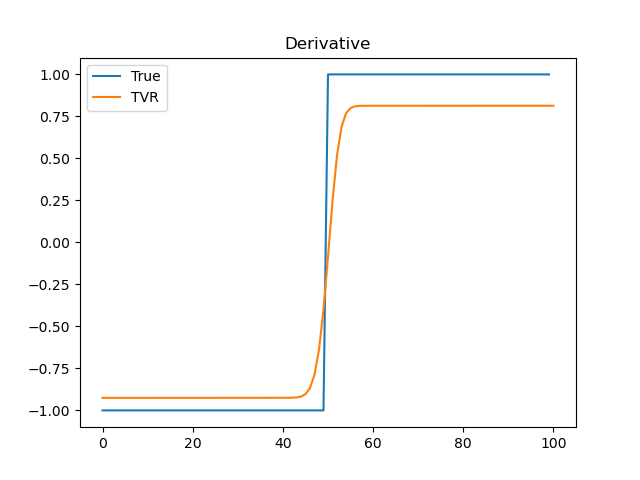
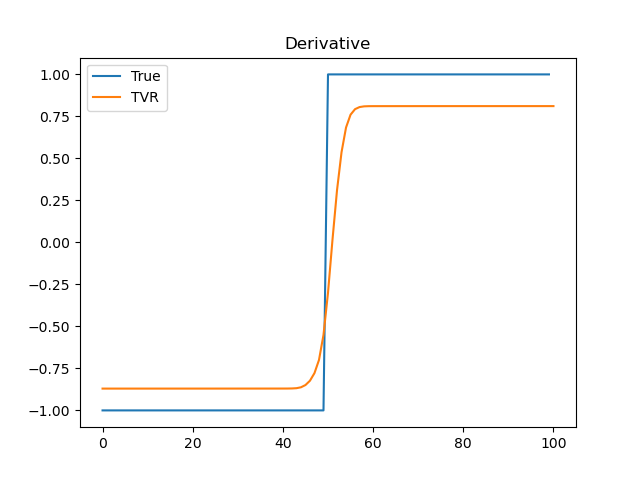
fixed bug in example that noisy data should be used instead of raw, updated figure

Changed region(s): [[0.5, 0.2188, 0.8438, 0.7188], [0.1562, 0.7188, 0.5, 0.8438]]

diff --git a/python/example_abs.py b/python/example_abs.py
@@ -1,4 +1,4 @@
-from Users.oernst.software_public.tvr_differentiate.python.diff_tvr import DiffTVR
+from diff_tvr import DiffTVR
 import numpy as np
 import matplotlib.pyplot as plt
 
@@ -37,7 +37,7 @@ if __name__ == "__main__":
     # Derivative with TVR
     diff_tvr = DiffTVR(n,dx)
     (deriv,_) = diff_tvr.get_deriv_tvr(
-        data=data, 
+        data=data_noisy, 
         deriv_guess=np.full(n+1,0.0), 
         alpha=0.2,
         no_opt_steps=100
